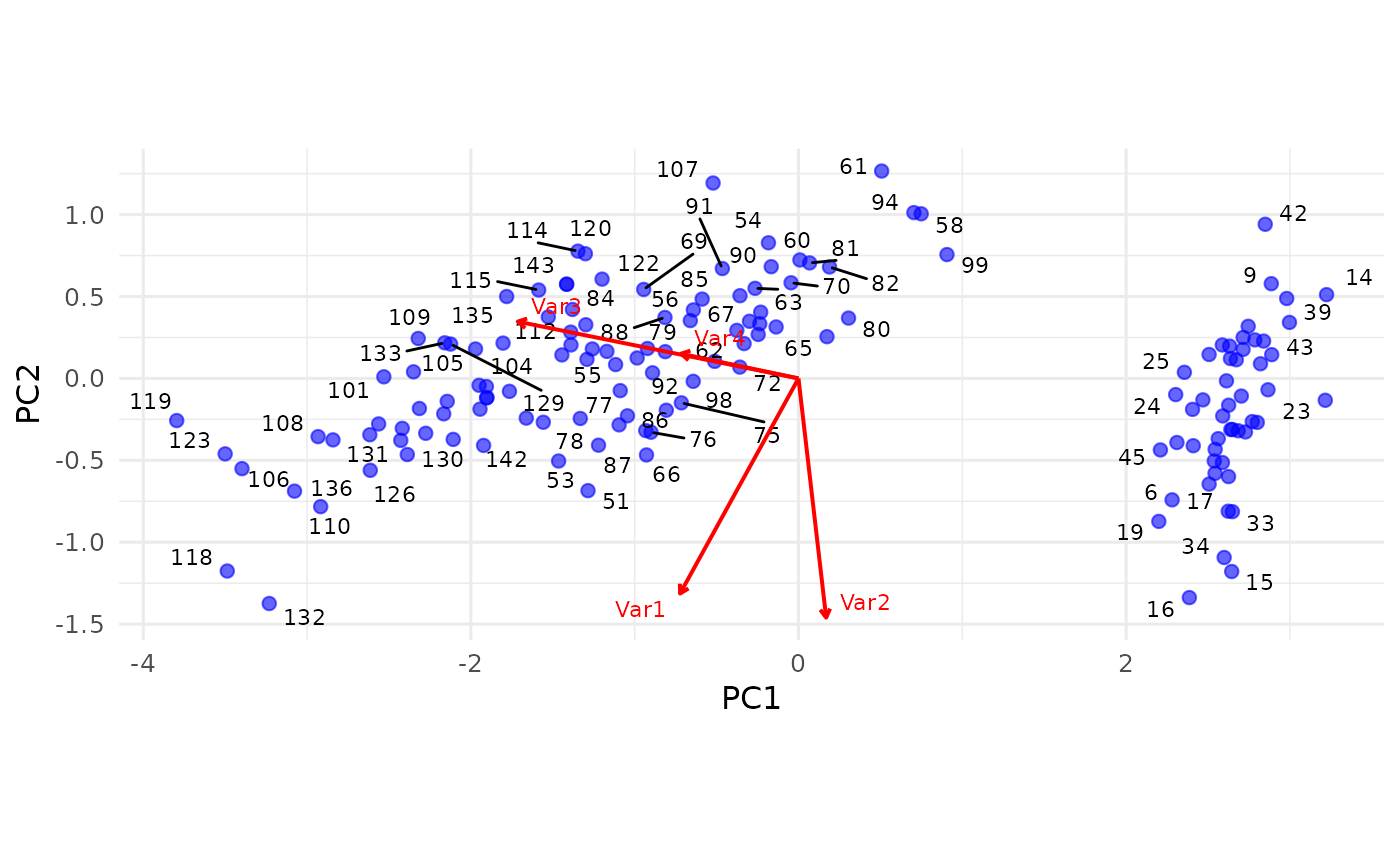
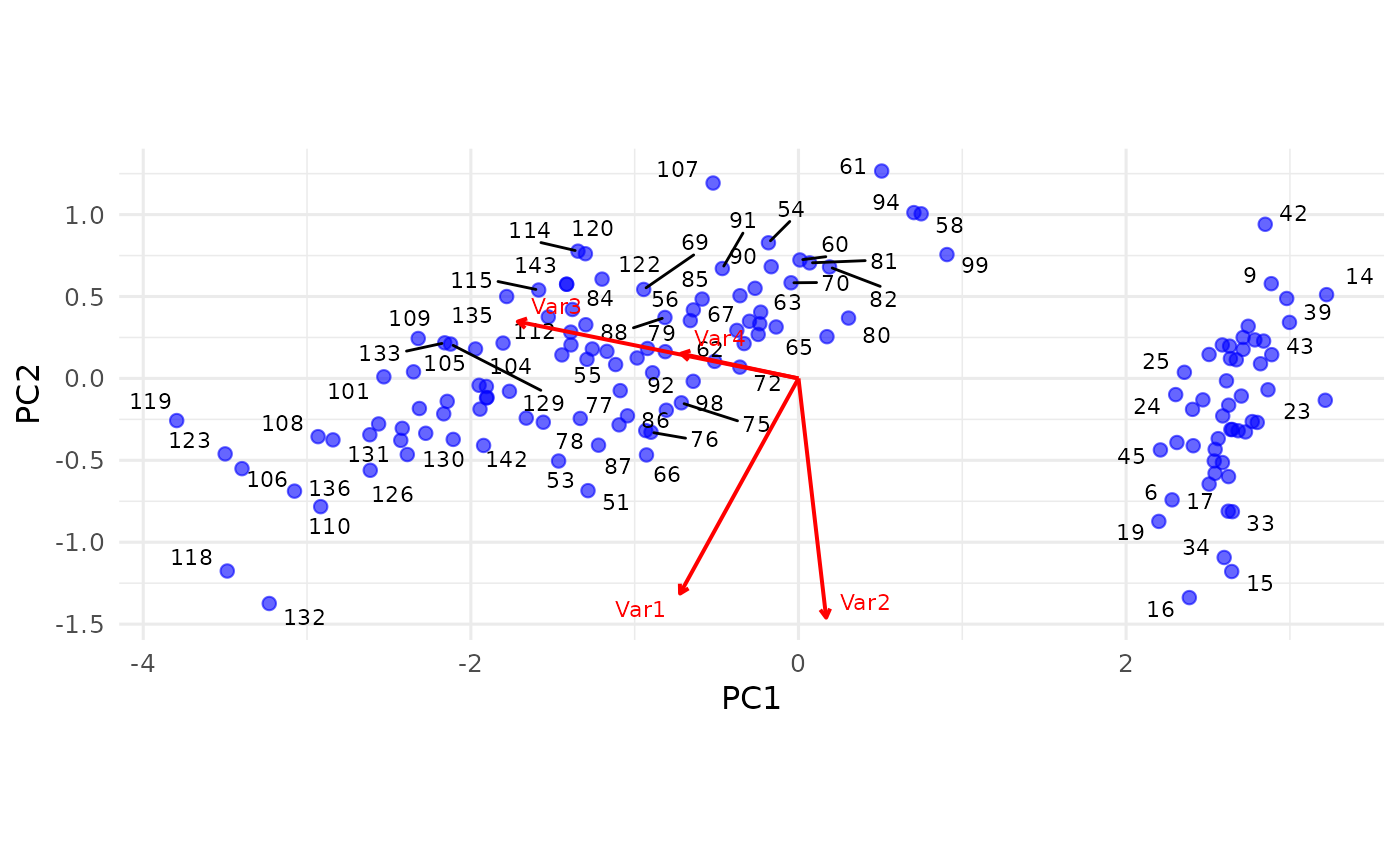
Deploying to gh-pages from @ bbuchsbaum/multivarious@a18d349317df02f841fc6b6cc6462ffa42e41994 🚀

diff --git a/articles/Mixed_Regress.html b/articles/Mixed_Regress.html
@@ -202,14 +202,14 @@ object.</p>
 <span><span class="co">#&gt; [1] 2</span></span>
 <span><span class="fu"><a href="../reference/components.html">components</a></span><span class="op">(</span><span class="va">E</span><span class="op">)</span><span class="op">[</span><span class="fl">1</span><span class="op">:</span><span class="fl">8</span>, <span class="op">]</span></span>
 <span><span class="co">#&gt;             [,1]        [,2]</span></span>
-<span><span class="co">#&gt; [1,]  0.05109814 -0.06294788</span></span>
-<span><span class="co">#&gt; [2,]  0.05330174  0.30134101</span></span>
+<span><span class="co">#&gt; [1,]  0.05109814 -0.06294787</span></span>
+<span><span class="co">#&gt; [2,]  0.05330174  0.30134100</span></span>
 <span><span class="co">#&gt; [3,] -0.97145296 -0.05483448</span></span>
-<span><span class="co">#&gt; [4,]  0.12712397  0.52753035</span></span>
-<span><span class="co">#&gt; [5,]  0.16843403 -0.73658796</span></span>
-<span><span class="co">#&gt; [6,]  0.01281331  0.04287407</span></span>
-<span><span class="co">#&gt; [7,]  0.06526767  0.03733843</span></span>
-<span><span class="co">#&gt; [8,]  0.04327207 -0.27953872</span></span></code></pre></div>
+<span><span class="co">#&gt; [4,]  0.12712397  0.52753036</span></span>
+<span><span class="co">#&gt; [5,]  0.16843403 -0.73658797</span></span>
+<span><span class="co">#&gt; [6,]  0.01281331  0.04287406</span></span>
+<span><span class="co">#&gt; [7,]  0.06526767  0.03733842</span></span>
+<span><span class="co">#&gt; [8,]  0.04327207 -0.27953870</span></span></code></pre></div>
 <p>Because <code>E</code> is an <code>effect_operator</code> and
 inherits from <code>bi_projector</code>, the familiar decomposition
 grammar carries over:</p>
@@ -280,7 +280,7 @@ object.</p>
 <span><span class="co">#&gt; Selected rank: 1</span></span>
 <span><span class="co">#&gt; </span></span>
 <span><span class="co">#&gt;   comp statistic effective_rank   lead_sv2       rel   observed pval</span></span>
-<span><span class="co">#&gt; 1    1  lead_sv2              2 344.460785 0.9932418 344.460785 0.01</span></span>
+<span><span class="co">#&gt; 1    1  lead_sv2              2 344.460800 0.9932418 344.460800 0.01</span></span>
 <span><span class="co">#&gt; 2    2  lead_sv2              1   2.343768 1.0000000   2.343768 0.32</span></span>
 <span><span class="va">pt</span><span class="op">$</span><span class="va">component_results</span></span>
 <span><span class="co">#&gt; <span style="color: #949494;"># A tibble: 2 × 7</span></span></span>

diff --git a/articles/Nystrom.html b/articles/Nystrom.html
@@ -126,12 +126,12 @@ m is small.</p>
 <span><span class="co"># Standard bi_projector interface</span></span>
 <span><span class="fu"><a href="https://rdrr.io/r/utils/head.html" class="external-link">head</a></span><span class="op">(</span><span class="fu"><a href="../reference/scores.html">scores</a></span><span class="op">(</span><span class="va">ny_fit</span><span class="op">)</span><span class="op">)</span></span>
 <span><span class="co">#&gt;             [,1]        [,2]       [,3]       [,4]         [,5]        [,6]</span></span>
-<span><span class="co">#&gt; [1,]  1.45270292  0.03749928 -0.2368871 -0.1187156 -0.416524468  0.58381281</span></span>
-<span><span class="co">#&gt; [2,] -0.08553264  0.21098943  2.0174421 -0.2780763  0.016232223  1.46634110</span></span>
-<span><span class="co">#&gt; [3,]  1.35999975  2.38423969 -0.7357389 -0.4051195  0.289000747 -0.24190588</span></span>
-<span><span class="co">#&gt; [4,] -0.14581306 -0.32474655 -1.6893599 -1.0902513 -0.972903175  0.03148513</span></span>
-<span><span class="co">#&gt; [5,]  1.03295739 -0.85262013 -0.8882174  0.2777049 -1.048920775  0.12657430</span></span>
-<span><span class="co">#&gt; [6,] -0.98488361  0.15283689 -1.1922802  0.5915995 -0.008715646 -2.10974250</span></span>
+<span><span class="co">#&gt; [1,]  1.45270292  0.03749928 -0.2368871  0.1187156 -0.416524468  0.58381281</span></span>
+<span><span class="co">#&gt; [2,] -0.08553264  0.21098943  2.0174421  0.2780763  0.016232223  1.46634110</span></span>
+<span><span class="co">#&gt; [3,]  1.35999975  2.38423969 -0.7357389  0.4051195  0.289000747 -0.24190588</span></span>
+<span><span class="co">#&gt; [4,] -0.14581306 -0.32474655 -1.6893599  1.0902513 -0.972903175  0.03148513</span></span>
+<span><span class="co">#&gt; [5,]  1.03295739 -0.85262013 -0.8882174 -0.2777049 -1.048920775  0.12657430</span></span>
+<span><span class="co">#&gt; [6,] -0.98488361  0.15283689 -1.1922802 -0.5915995 -0.008715646 -2.10974250</span></span>
 <span><span class="co">#&gt;            [,7]        [,8]       [,9]      [,10]</span></span>
 <span><span class="co">#&gt; [1,]  0.1024324 -0.06344357 -1.8224682 -0.4924368</span></span>
 <span><span class="co">#&gt; [2,]  1.1993310  0.27285706  1.4943231 -0.6030422</span></span>
@@ -188,14 +188,14 @@ approximation twice, reducing complexity further:</p>
 <span>  <span class="va">ny_standard</span> <span class="op">&lt;-</span> <span class="fu"><a href="../reference/nystrom_approx.html">nystrom_approx</a></span><span class="op">(</span><span class="va">X</span>, ncomp <span class="op">=</span> <span class="fl">5</span>, nlandmarks <span class="op">=</span> <span class="fl">200</span>, method <span class="op">=</span> <span class="st">"standard"</span><span class="op">)</span></span>
 <span><span class="op">)</span></span>
 <span><span class="co">#&gt;    user  system elapsed </span></span>
-<span><span class="co">#&gt;   0.007   0.011   0.005</span></span>
+<span><span class="co">#&gt;   0.010   0.007   0.005</span></span>
 <span></span>
 <span><span class="co"># Double Nyström (faster with intermediate rank l)</span></span>
 <span><span class="fu"><a href="https://rdrr.io/r/base/system.time.html" class="external-link">system.time</a></span><span class="op">(</span></span>
 <span>  <span class="va">ny_double</span> <span class="op">&lt;-</span> <span class="fu"><a href="../reference/nystrom_approx.html">nystrom_approx</a></span><span class="op">(</span><span class="va">X</span>, ncomp <span class="op">=</span> <span class="fl">5</span>, nlandmarks <span class="op">=</span> <span class="fl">200</span>, method <span class="op">=</span> <span class="st">"double"</span>, l <span class="op">=</span> <span class="fl">50</span><span class="op">)</span></span>
 <span><span class="op">)</span></span>
 <span><span class="co">#&gt;    user  system elapsed </span></span>
-<span><span class="co">#&gt;   0.015   0.026   0.012</span></span></code></pre></div>
+<span><span class="co">#&gt;   0.021   0.024   0.012</span></span></code></pre></div>
 </div>
 <div class="section level2">
 <h2 id="choosing-parameters">Choosing Parameters<a class="anchor" aria-label="anchor" href="#choosing-parameters"></a>

diff --git a/articles/CrossValidation.html b/articles/CrossValidation.html
@@ -130,7 +130,7 @@ function projects test data, reconstructs it, and computes RMSE:</p>
 <span><span class="co">#&gt; 1     1 2.949027e-01</span></span>
 <span><span class="co">#&gt; 2     2 1.603380e-01</span></span>
 <span><span class="co">#&gt; 3     3 7.673558e-02</span></span>
-<span><span class="co">#&gt; 4     4 5.576655e-16</span></span></code></pre></div>
+<span><span class="co">#&gt; 4     4 5.299976e-16</span></span></code></pre></div>
 <p>Two components capture most of the structure; additional components
 yield diminishing returns.</p>
 </div>
@@ -451,11 +451,11 @@ new data.</p>
 <span><span class="va">scores_new</span> <span class="op">&lt;-</span> <span class="fu"><a href="../reference/project.html">project</a></span><span class="op">(</span><span class="va">fit_std</span>, <span class="va">X</span><span class="op">[</span><span class="va">new_rows</span>, , drop <span class="op">=</span> <span class="cn">FALSE</span><span class="op">]</span><span class="op">)</span></span>
 <span><span class="fu"><a href="https://rdrr.io/r/utils/head.html" class="external-link">head</a></span><span class="op">(</span><span class="va">scores_new</span><span class="op">)</span></span>
 <span><span class="co">#&gt;            [,1]         [,2]        [,3]       [,4]       [,5]</span></span>
-<span><span class="co">#&gt; [1,] -0.5065700 -0.003782324 -0.89690602 -1.2402365 -0.2466715</span></span>
-<span><span class="co">#&gt; [2,] -0.3673067  0.489430969 -1.23213982 -1.5330320  0.7247966</span></span>
-<span><span class="co">#&gt; [3,]  1.9065578 -0.008104080 -0.61654002  1.5191661  1.2188904</span></span>
-<span><span class="co">#&gt; [4,] -1.5843734 -0.908340577 -0.94045424 -2.8897545 -2.0328659</span></span>
-<span><span class="co">#&gt; [5,]  0.5690207  0.002415067  0.09988366 -0.0194067  0.5888599</span></span>
+<span><span class="co">#&gt; [1,]  0.5065700  0.003782324 -0.89690602  1.2402365 -0.2466715</span></span>
+<span><span class="co">#&gt; [2,]  0.3673067 -0.489430969 -1.23213982  1.5330320  0.7247966</span></span>
+<span><span class="co">#&gt; [3,] -1.9065578  0.008104080 -0.61654002 -1.5191661  1.2188904</span></span>
+<span><span class="co">#&gt; [4,]  1.5843734  0.908340577 -0.94045424  2.8897545 -2.0328659</span></span>
+<span><span class="co">#&gt; [5,] -0.5690207 -0.002415067  0.09988366  0.0194067  0.5888599</span></span>
 <span></span>
 <span><span class="co"># Double Nyström collapses to standard when l = m = N</span></span>
 <span><span class="va">fit_dbl</span> <span class="op">&lt;-</span> <span class="fu"><a href="../reference/nystrom_approx.html">nystrom_approx</a></span><span class="op">(</span></span>

diff --git a/reference/nystrom_approx.html b/reference/nystrom_approx.html
@@ -207,12 +207,12 @@ In <em>Advances in Neural Information Processing Systems 13</em> (pp. 682-688).<
 <span class="r-in"><span><span class="va">scores_new</span> <span class="op">&lt;-</span> <span class="fu"><a href="project.html">project</a></span><span class="op">(</span><span class="va">res_std</span>, <span class="va">X</span><span class="op">[</span><span class="fl">1</span><span class="op">:</span><span class="fl">10</span>,<span class="op">]</span><span class="op">)</span></span></span>
 <span class="r-in"><span><span class="fu"><a href="https://rdrr.io/r/utils/head.html" class="external-link">head</a></span><span class="op">(</span><span class="va">scores_new</span><span class="op">)</span></span></span>
 <span class="r-out co"><span class="r-pr">#&gt;</span>            [,1]       [,2]       [,3]        [,4]       [,5]</span>
-<span class="r-out co"><span class="r-pr">#&gt;</span> [1,] -0.3464966 -2.4798337  0.6040714 -0.62223962  0.5059013</span>
-<span class="r-out co"><span class="r-pr">#&gt;</span> [2,] -0.1623986 -0.4074079 -0.8435420 -1.38722424 -0.3488808</span>
-<span class="r-out co"><span class="r-pr">#&gt;</span> [3,]  0.6435716 -0.2531178 -0.7252837  0.35537372 -0.7208270</span>
-<span class="r-out co"><span class="r-pr">#&gt;</span> [4,]  0.1593062 -0.2865374  0.5394600 -0.02853512 -0.5659083</span>
-<span class="r-out co"><span class="r-pr">#&gt;</span> [5,] -1.5810568 -6.8534098  3.2928589 -0.59725008 -0.8724898</span>
-<span class="r-out co"><span class="r-pr">#&gt;</span> [6,] -0.6895022  1.3136927  1.0744290 -0.93430486 -1.5582248</span>
+<span class="r-out co"><span class="r-pr">#&gt;</span> [1,] -0.3464966 -2.4798337  0.6040714 -0.62223962 -0.5059013</span>
+<span class="r-out co"><span class="r-pr">#&gt;</span> [2,] -0.1623986 -0.4074079 -0.8435420 -1.38722424  0.3488808</span>
+<span class="r-out co"><span class="r-pr">#&gt;</span> [3,]  0.6435716 -0.2531178 -0.7252837  0.35537372  0.7208270</span>
+<span class="r-out co"><span class="r-pr">#&gt;</span> [4,]  0.1593062 -0.2865374  0.5394600 -0.02853512  0.5659083</span>
+<span class="r-out co"><span class="r-pr">#&gt;</span> [5,] -1.5810568 -6.8534098  3.2928589 -0.59725008  0.8724898</span>
+<span class="r-out co"><span class="r-pr">#&gt;</span> [6,] -0.6895022  1.3136927  1.0744290 -0.93430486  1.5582248</span>
 </code></pre></div>
     </div>
   </main><aside class="col-md-3"><nav id="toc" aria-label="Table of contents"><h2>On this page</h2>

diff --git a/articles/SVD_PCA.html b/articles/SVD_PCA.html
@@ -103,7 +103,7 @@ loadings <code>v</code>, scores <code>s</code>, singular values
 <span><span class="kw">if</span> <span class="op">(</span><span class="op">!</span><span class="fu"><a href="https://rdrr.io/r/base/NULL.html" class="external-link">is.null</a></span><span class="op">(</span><span class="va">sv_irlba</span><span class="op">)</span><span class="op">)</span> <span class="op">{</span></span>
 <span>  <span class="fu"><a href="https://rdrr.io/r/base/all.equal.html" class="external-link">all.equal</a></span><span class="op">(</span><span class="fu"><a href="../reference/scores.html">scores</a></span><span class="op">(</span><span class="va">sv_fast</span><span class="op">)</span>, <span class="fu"><a href="../reference/scores.html">scores</a></span><span class="op">(</span><span class="va">sv_irlba</span><span class="op">)</span><span class="op">)</span></span>
 <span><span class="op">}</span></span>
-<span><span class="co">#&gt; [1] "Mean relative difference: 0.7895446"</span></span></code></pre></div>
+<span><span class="co">#&gt; [1] "Mean relative difference: 0.7913532"</span></span></code></pre></div>
 </div>
 <div class="section level2">
 <h2 id="a-one-liner-pca">2. A one-liner <code>pca()</code><a class="anchor" aria-label="anchor" href="#a-one-liner-pca"></a>
@@ -320,7 +320,7 @@ framework later.</li>
 <span><span class="co">#&gt; [34] cli_3.6.6            withr_3.0.2          pkgdown_2.2.0       </span></span>
 <span><span class="co">#&gt; [37] magrittr_2.0.5       digest_0.6.39        grid_4.6.0          </span></span>
 <span><span class="co">#&gt; [40] irlba_2.3.7          lifecycle_1.0.5      vctrs_0.7.3         </span></span>
-<span><span class="co">#&gt; [43] evaluate_1.0.5       glue_1.8.1           GPArotation_2026.4-1</span></span>
+<span><span class="co">#&gt; [43] evaluate_1.0.5       glue_1.8.1           GPArotation_2026.6-1</span></span>
 <span><span class="co">#&gt; [46] corpcor_1.6.10       farver_2.1.2         ragg_1.5.2          </span></span>
 <span><span class="co">#&gt; [49] rmarkdown_2.31       tools_4.6.0          pkgconfig_2.0.3     </span></span>
 <span><span class="co">#&gt; [52] htmltools_0.5.9</span></span></code></pre></div>

diff --git a/reference/perm_test.html b/reference/perm_test.html
@@ -206,7 +206,7 @@ Numerical and practical aspects. <em>Journal of Chemometrics</em>, 31(10), e2937
 <span class="r-msg co"><span class="r-pr">#&gt;</span> Pre-calculating reconstructions for stepwise testing...</span>
 <span class="r-msg co"><span class="r-pr">#&gt;</span> Running 50 permutations sequentially for up to 3 PCA components (alpha=0.050, serial)...</span>
 <span class="r-msg co"><span class="r-pr">#&gt;</span>   Testing Component 1/3...</span>
-<span class="r-msg co"><span class="r-pr">#&gt;</span>   Component 1 p-value (0.4314) &gt; alpha (0.050). Stopping sequential testing.</span>
+<span class="r-msg co"><span class="r-pr">#&gt;</span>   Component 1 p-value (0.9608) &gt; alpha (0.050). Stopping sequential testing.</span>
 <span class="r-in"><span><span class="fu"><a href="https://rdrr.io/r/base/print.html" class="external-link">print</a></span><span class="op">(</span><span class="va">res_pca_row</span><span class="op">)</span></span></span>
 <span class="r-out co"><span class="r-pr">#&gt;</span> </span>
 <span class="r-out co"><span class="r-pr">#&gt;</span> PCA Permutation Test Results</span>
@@ -216,7 +216,7 @@ Numerical and practical aspects. <em>Journal of Chemometrics</em>, 31(10), e2937
 <span class="r-out co"><span class="r-pr">#&gt;</span> </span>
 <span class="r-out co"><span class="r-pr">#&gt;</span> Component Results:</span>
 <span class="r-out co"><span class="r-pr">#&gt;</span>   comp  observed      pval  lower_ci  upper_ci</span>
-<span class="r-out co"><span class="r-pr">#&gt;</span> 1    1 0.9246187 0.4313725 0.9246187 0.9246187</span>
+<span class="r-out co"><span class="r-pr">#&gt;</span> 1    1 0.9246187 0.9607843 0.9246187 0.9246187</span>
 <span class="r-out co"><span class="r-pr">#&gt;</span> </span>
 <span class="r-out co"><span class="r-pr">#&gt;</span> Number of successful permutations per component: 50 </span>
 <span class="r-in"><span></span></span>

diff --git a/articles/Extending.html b/articles/Extending.html
@@ -300,7 +300,7 @@ coefficients (excluding the intercept) into a
 <span></span>
 <span><span class="co"># Fit glmnet (LASSO, alpha=1)</span></span>
 <span><span class="co"># Typically use cv.glmnet to find lambda, but using a fixed one for simplicity</span></span>
-<span><span class="va">glm_fit</span> <span class="op">&lt;-</span> <span class="fu">glmnet</span><span class="fu">::</span><span class="fu"><a href="https://rdrr.io/pkg/glmnet/man/glmnet.html" class="external-link">glmnet</a></span><span class="op">(</span><span class="va">X_glm</span>, <span class="va">y_glm</span>, alpha <span class="op">=</span> <span class="fl">1</span><span class="op">)</span> <span class="co"># alpha=1 is LASSO</span></span>
+<span><span class="va">glm_fit</span> <span class="op">&lt;-</span> <span class="fu">glmnet</span><span class="fu">::</span><span class="fu"><a href="https://glmnet.stanford.edu/reference/glmnet.html" class="external-link">glmnet</a></span><span class="op">(</span><span class="va">X_glm</span>, <span class="va">y_glm</span>, alpha <span class="op">=</span> <span class="fl">1</span><span class="op">)</span> <span class="co"># alpha=1 is LASSO</span></span>
 <span></span>
 <span><span class="co"># Choose a lambda (e.g., one near the end of the path)</span></span>
 <span><span class="va">chosen_lambda</span> <span class="op">&lt;-</span> <span class="va">glm_fit</span><span class="op">$</span><span class="va">lambda</span><span class="op">[</span><span class="fu"><a href="https://rdrr.io/r/base/length.html" class="external-link">length</a></span><span class="op">(</span><span class="va">glm_fit</span><span class="op">$</span><span class="va">lambda</span><span class="op">)</span> <span class="op">*</span> <span class="fl">0.8</span><span class="op">]</span></span>

diff --git a/articles/Mixed_Regress.md b/articles/Mixed_Regress.md
@@ -149,14 +149,14 @@ ncomp(E)
 #> [1] 2
 components(E)[1:8, ]
 #>             [,1]        [,2]
-#> [1,]  0.05109814 -0.06294788
-#> [2,]  0.05330174  0.30134101
+#> [1,]  0.05109814 -0.06294787
+#> [2,]  0.05330174  0.30134100
 #> [3,] -0.97145296 -0.05483448
-#> [4,]  0.12712397  0.52753035
-#> [5,]  0.16843403 -0.73658796
-#> [6,]  0.01281331  0.04287407
-#> [7,]  0.06526767  0.03733843
-#> [8,]  0.04327207 -0.27953872
+#> [4,]  0.12712397  0.52753036
+#> [5,]  0.16843403 -0.73658797
+#> [6,]  0.01281331  0.04287406
+#> [7,]  0.06526767  0.03733842
+#> [8,]  0.04327207 -0.27953870
 ```
 
 Because `E` is an `effect_operator` and inherits from `bi_projector`,
@@ -223,7 +223,7 @@ print(pt)
 #> Selected rank: 1
 #> 
 #>   comp statistic effective_rank   lead_sv2       rel   observed pval
-#> 1    1  lead_sv2              2 344.460785 0.9932418 344.460785 0.01
+#> 1    1  lead_sv2              2 344.460800 0.9932418 344.460800 0.01
 #> 2    2  lead_sv2              1   2.343768 1.0000000   2.343768 0.32
 pt$component_results
 #> # A tibble: 2 × 7

diff --git a/articles/Nystrom.md b/articles/Nystrom.md
@@ -62,12 +62,12 @@ print(ny_fit)
 # Standard bi_projector interface
 head(scores(ny_fit))
 #>             [,1]        [,2]       [,3]       [,4]         [,5]        [,6]
-#> [1,]  1.45270292  0.03749928 -0.2368871 -0.1187156 -0.416524468  0.58381281
-#> [2,] -0.08553264  0.21098943  2.0174421 -0.2780763  0.016232223  1.46634110
-#> [3,]  1.35999975  2.38423969 -0.7357389 -0.4051195  0.289000747 -0.24190588
-#> [4,] -0.14581306 -0.32474655 -1.6893599 -1.0902513 -0.972903175  0.03148513
-#> [5,]  1.03295739 -0.85262013 -0.8882174  0.2777049 -1.048920775  0.12657430
-#> [6,] -0.98488361  0.15283689 -1.1922802  0.5915995 -0.008715646 -2.10974250
+#> [1,]  1.45270292  0.03749928 -0.2368871  0.1187156 -0.416524468  0.58381281
+#> [2,] -0.08553264  0.21098943  2.0174421  0.2780763  0.016232223  1.46634110
+#> [3,]  1.35999975  2.38423969 -0.7357389  0.4051195  0.289000747 -0.24190588
+#> [4,] -0.14581306 -0.32474655 -1.6893599  1.0902513 -0.972903175  0.03148513
+#> [5,]  1.03295739 -0.85262013 -0.8882174 -0.2777049 -1.048920775  0.12657430
+#> [6,] -0.98488361  0.15283689 -1.1922802 -0.5915995 -0.008715646 -2.10974250
 #>            [,7]        [,8]       [,9]      [,10]
 #> [1,]  0.1024324 -0.06344357 -1.8224682 -0.4924368
 #> [2,]  1.1993310  0.27285706  1.4943231 -0.6030422
@@ -130,14 +130,14 @@ system.time(
   ny_standard <- nystrom_approx(X, ncomp = 5, nlandmarks = 200, method = "standard")
 )
 #>    user  system elapsed 
-#>   0.007   0.011   0.005
+#>   0.010   0.007   0.005
 
 # Double Nyström (faster with intermediate rank l)
 system.time(
   ny_double <- nystrom_approx(X, ncomp = 5, nlandmarks = 200, method = "double", l = 50)
 )
 #>    user  system elapsed 
-#>   0.015   0.026   0.012
+#>   0.021   0.024   0.012
 ```
 
 ## Choosing Parameters

diff --git a/articles/CrossValidation.md b/articles/CrossValidation.md
@@ -78,7 +78,7 @@ print(cv_results)
 #> 1     1 2.949027e-01
 #> 2     2 1.603380e-01
 #> 3     3 7.673558e-02
-#> 4     4 5.576655e-16
+#> 4     4 5.299976e-16
 ```
 
 Two components capture most of the structure; additional components
@@ -372,11 +372,11 @@ new_rows <- 1:5
 scores_new <- project(fit_std, X[new_rows, , drop = FALSE])
 head(scores_new)
 #>            [,1]         [,2]        [,3]       [,4]       [,5]
-#> [1,] -0.5065700 -0.003782324 -0.89690602 -1.2402365 -0.2466715
-#> [2,] -0.3673067  0.489430969 -1.23213982 -1.5330320  0.7247966
-#> [3,]  1.9065578 -0.008104080 -0.61654002  1.5191661  1.2188904
-#> [4,] -1.5843734 -0.908340577 -0.94045424 -2.8897545 -2.0328659
-#> [5,]  0.5690207  0.002415067  0.09988366 -0.0194067  0.5888599
+#> [1,]  0.5065700  0.003782324 -0.89690602  1.2402365 -0.2466715
+#> [2,]  0.3673067 -0.489430969 -1.23213982  1.5330320  0.7247966
+#> [3,] -1.9065578  0.008104080 -0.61654002 -1.5191661  1.2188904
+#> [4,]  1.5843734  0.908340577 -0.94045424  2.8897545 -2.0328659
+#> [5,] -0.5690207 -0.002415067  0.09988366  0.0194067  0.5888599
 
 # Double Nyström collapses to standard when l = m = N
 fit_dbl <- nystrom_approx(

diff --git a/reference/nystrom_approx.md b/reference/nystrom_approx.md
@@ -197,10 +197,10 @@ print(res_db)
 scores_new <- project(res_std, X[1:10,])
 head(scores_new)
 #>            [,1]       [,2]       [,3]        [,4]       [,5]
-#> [1,] -0.3464966 -2.4798337  0.6040714 -0.62223962  0.5059013
-#> [2,] -0.1623986 -0.4074079 -0.8435420 -1.38722424 -0.3488808
-#> [3,]  0.6435716 -0.2531178 -0.7252837  0.35537372 -0.7208270
-#> [4,]  0.1593062 -0.2865374  0.5394600 -0.02853512 -0.5659083
-#> [5,] -1.5810568 -6.8534098  3.2928589 -0.59725008 -0.8724898
-#> [6,] -0.6895022  1.3136927  1.0744290 -0.93430486 -1.5582248
+#> [1,] -0.3464966 -2.4798337  0.6040714 -0.62223962 -0.5059013
+#> [2,] -0.1623986 -0.4074079 -0.8435420 -1.38722424  0.3488808
+#> [3,]  0.6435716 -0.2531178 -0.7252837  0.35537372  0.7208270
+#> [4,]  0.1593062 -0.2865374  0.5394600 -0.02853512  0.5659083
+#> [5,] -1.5810568 -6.8534098  3.2928589 -0.59725008  0.8724898
+#> [6,] -0.6895022  1.3136927  1.0744290 -0.93430486  1.5582248
 ```

diff --git a/articles/SVD_PCA.md b/articles/SVD_PCA.md
@@ -47,7 +47,7 @@ head(scores(sv_fast)) # 35 × 5
 if (!is.null(sv_irlba)) {
   all.equal(scores(sv_fast), scores(sv_irlba))
 }
-#> [1] "Mean relative difference: 0.7895446"
+#> [1] "Mean relative difference: 0.7913532"
 ```
 
 ## 2. A one-liner `pca()`
@@ -253,7 +253,7 @@ sessionInfo()
 #> [34] cli_3.6.6            withr_3.0.2          pkgdown_2.2.0       
 #> [37] magrittr_2.0.5       digest_0.6.39        grid_4.6.0          
 #> [40] irlba_2.3.7          lifecycle_1.0.5      vctrs_0.7.3         
-#> [43] evaluate_1.0.5       glue_1.8.1           GPArotation_2026.4-1
+#> [43] evaluate_1.0.5       glue_1.8.1           GPArotation_2026.6-1
 #> [46] corpcor_1.6.10       farver_2.1.2         ragg_1.5.2          
 #> [49] rmarkdown_2.31       tools_4.6.0          pkgconfig_2.0.3     
 #> [52] htmltools_0.5.9